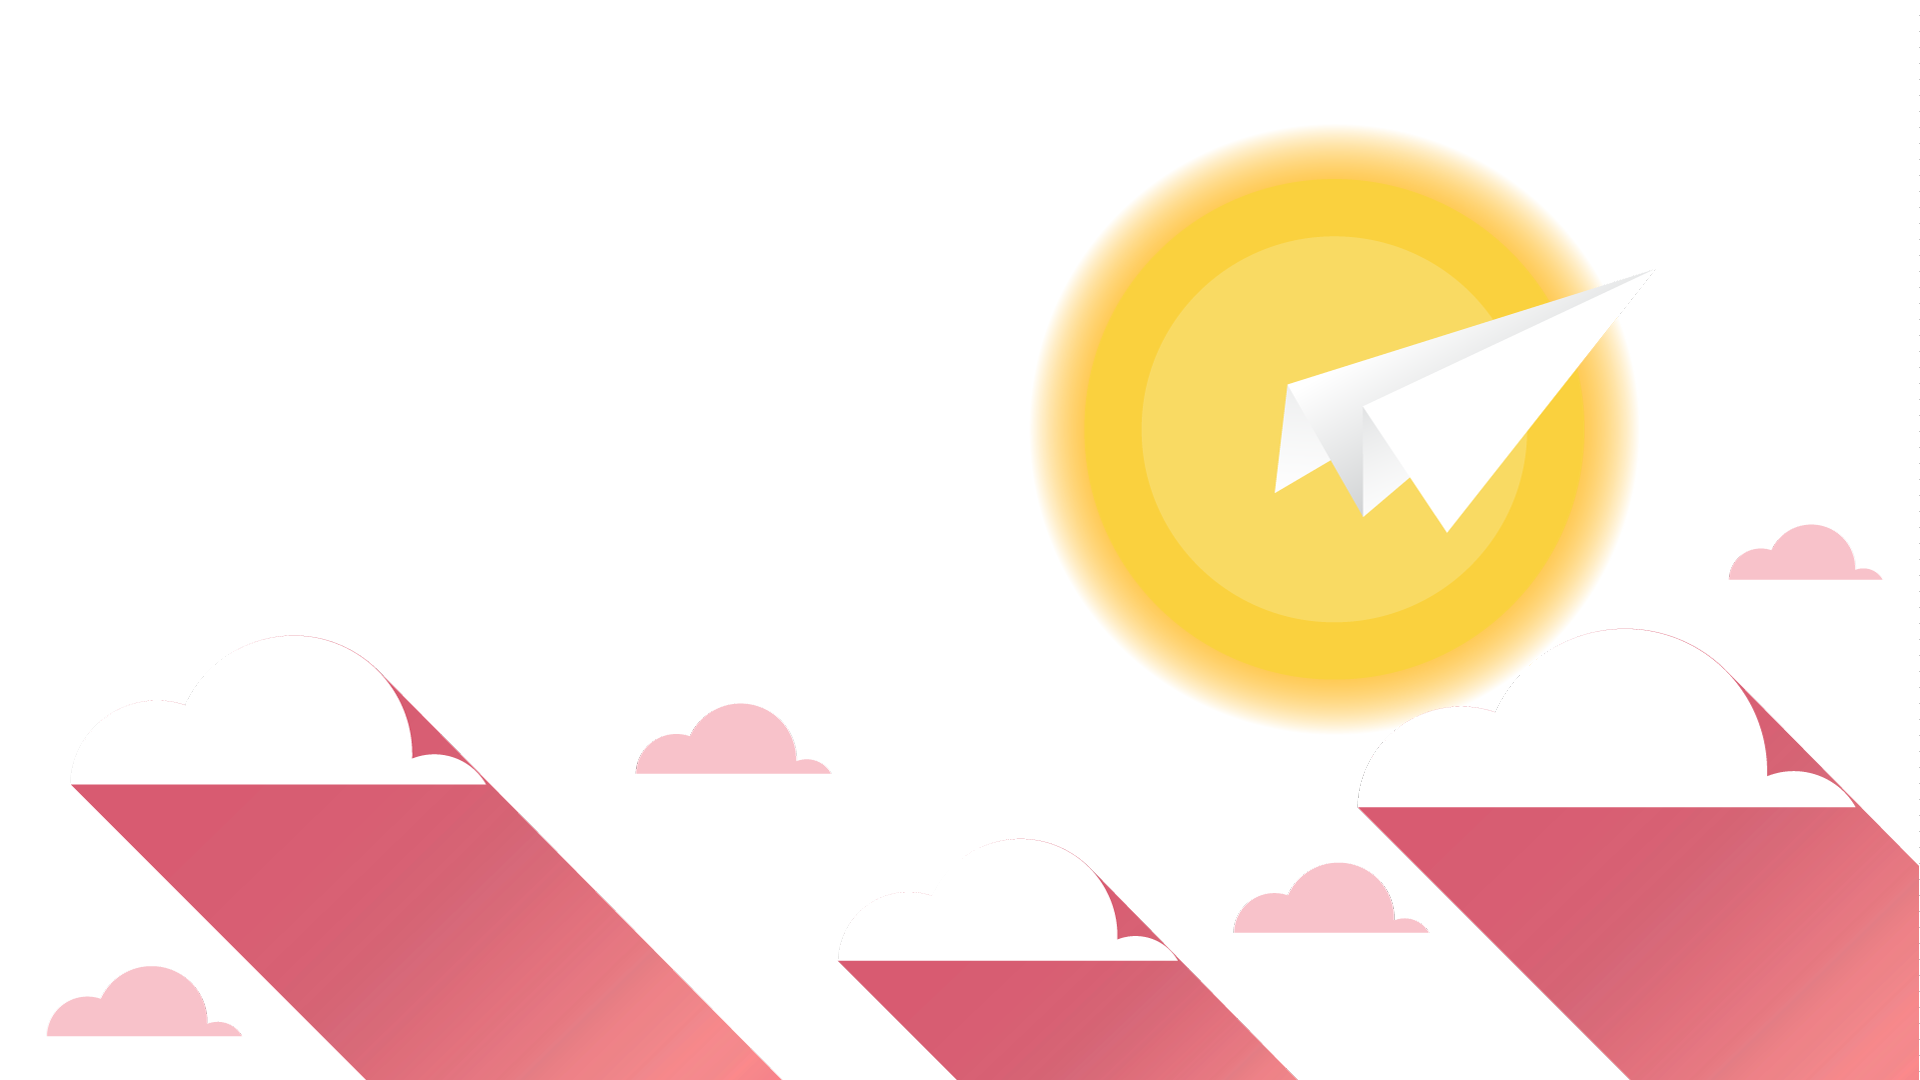
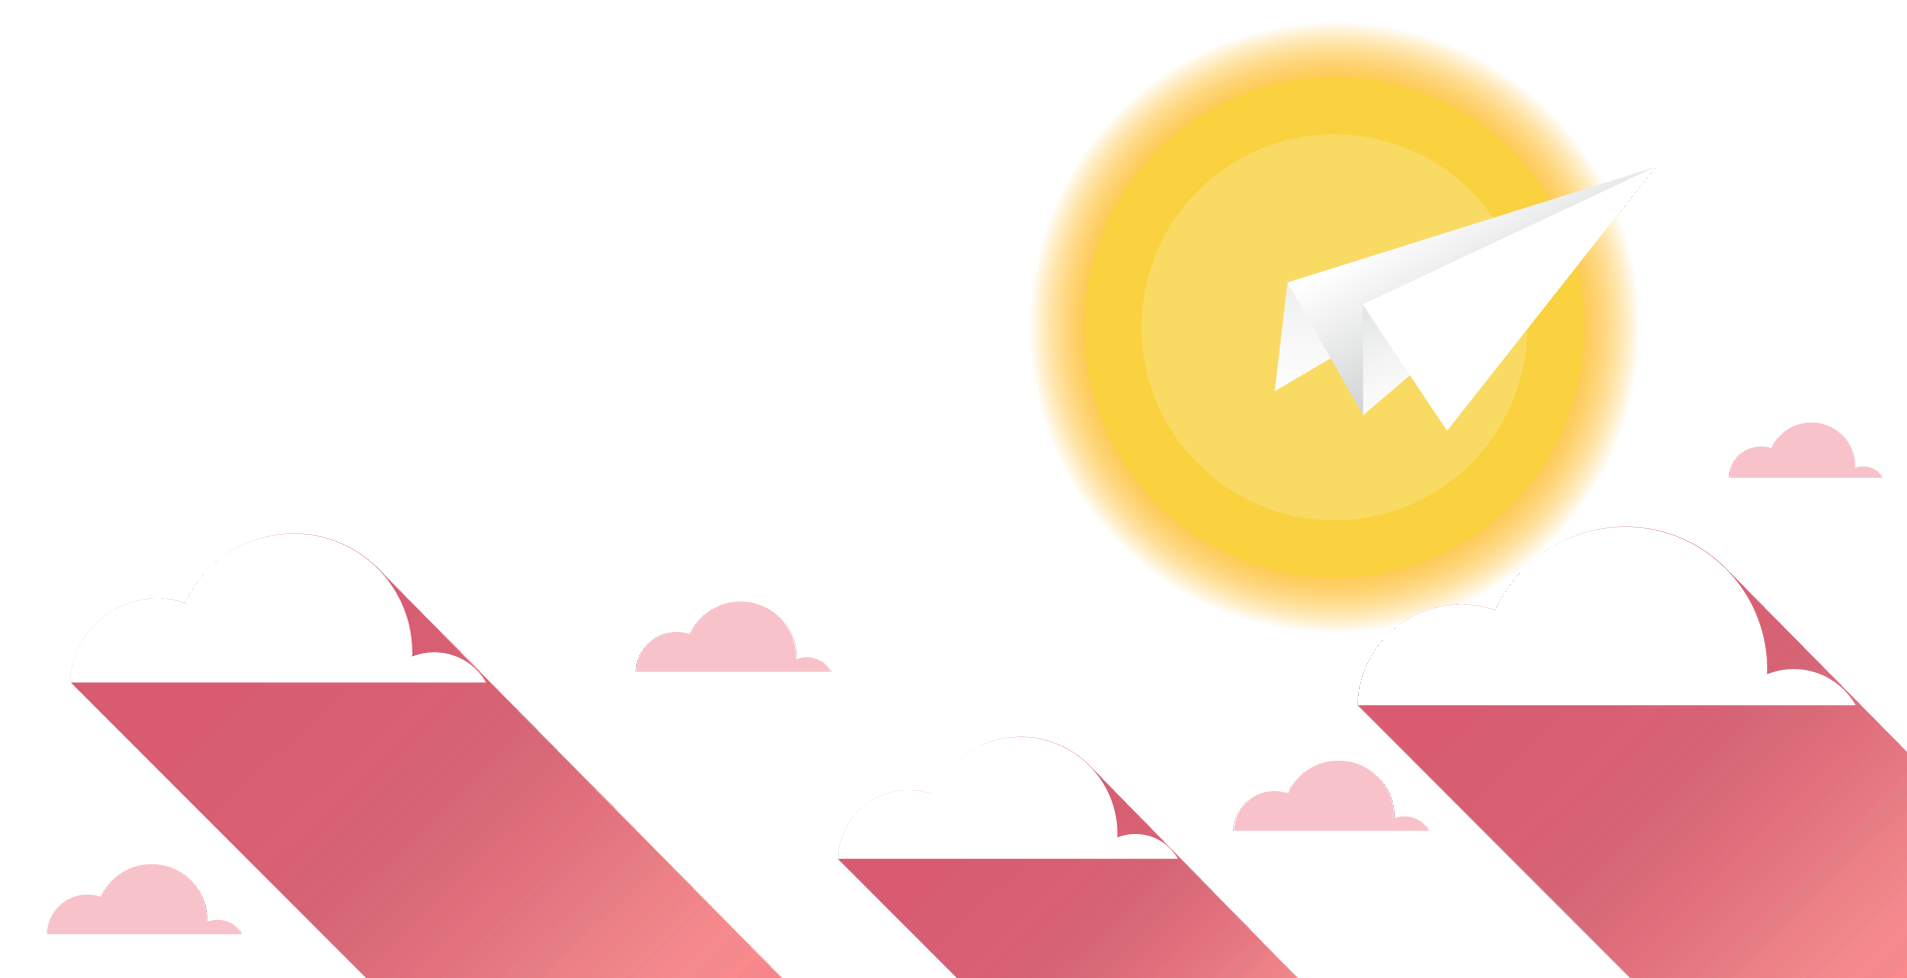
dash upload

diff --git a/public/stylesheets/index.css b/public/stylesheets/index.css
@@ -1,15 +1,13 @@
 body{
-    background: url(/images/landing.png) no-repeat center center fixed;
-    -webkit-background-size: cover;
-    -moz-background-size: cover;
-    -o-background-size: cover;
-    background-size: cover;
+    /*background: url(/images/landing.png) no-repeat center center fixed;*/
+    padding-right: 0;
+    padding-left: 0;
     background-color: #ff8189;
 }
 
 #blurb{
     position: absolute;
-    top: 190px;
+    top: 20%;
     left: 60px;
 }
 #blurb p{
@@ -22,7 +20,7 @@ body{
     -moz-border-radius: 35px;
     border-radius: 35px;
     padding: 10px 50px 10px 50px;
-    font-family: Quicksand;
+    font-family: 'Quicksand', sans-serif;
     font-size: 20px;
     text-decoration: none;
 }
@@ -34,9 +32,15 @@ body{
 
 
 #graphic{
-    position: absolute;
-    top: 80px;
-    right: 20px;
-    overflow: visible;
-    left: 20px;
+    position: relative;
+    height: calc(100vh - 105px);
+    width: 100%;
+    margin-right: -20px;
+    margin-left: -20px;
+}
+
+#landing-img{
+    width: 100%;
+    z-index: -5;
+    overflow: hidden;
 }

diff --git a/public/stylesheets/login-signup.css b/public/stylesheets/login-signup.css
@@ -3,12 +3,13 @@
 #middle-box{
     border-radius: 25px;
     border: 1px solid white;
+    font-size: 17px;
     width: 700px;
     height: auto;
     text-align: center;
     align-items: center;
     position: relative;
-    top: 100px;
+    top: 85px;
     bottom: 0;
     left: 0;
     right: 0;
@@ -22,7 +23,6 @@ form * {
     margin: 5px;
 }
 
-
 #inner-box{
     text-align: right;
     width: auto;
@@ -30,13 +30,29 @@ form * {
 }
 
 .field{
+    border-radius: 6px;
+    -webkit-box-sizing: border-box;
+    -moz-box-sizing: border-box;
+    box-sizing: border-box;
     width: 200px;
+    background: transparent;
+    color: white;
+    font-family: 'Quicksand', sans-serif;
+    border: solid #ffffff 1px;
+    font-size: 17px;
 }
+
+.field:focus {
+    outline: none !important;
+    border:1px solid #ffffff;
+    box-shadow: 0 0 10px #375d9d;
+}
+
 
 
 .submt-in-button {
     border-radius: 12px;
-    font-family: Quicksand;
+    font-family: 'Quicksand', sans-serif;
     color: #ffffff;
     width: 100%;
     font-size: 18px;

diff --git a/public/stylesheets/style.css b/public/stylesheets/style.css
@@ -2,7 +2,7 @@ body {
   padding-right: 20px;
   padding-left: 20px;
   padding-top: 20px;
-  font: 14px Quicksand, Arial, sans-serif;
+  font: 14px 'Quicksand', sans-serif;
   background-color: #ff8189;
   color: white;
 }
@@ -10,6 +10,10 @@ body {
 a {
   color: white;
   text-decoration: none;
+}
+
+header{
+  height: 70px;
 }
 
 
@@ -43,7 +47,7 @@ a {
   margin-left: 3px;
   margin-right: 3px;
   border-radius: 18px;
-  font-family: Quicksand;
+  font-family: 'Quicksand', sans-serif;
   color: #ffffff;
   font-size: 20px;
   background: #ff8189;
@@ -56,6 +60,24 @@ a {
   background: #ffffff;
   text-decoration: none;
   color: #ff8189;
+}
+
+.blue-btn {
+  border-radius: 12px;
+  font-family: 'Quicksand', sans-serif;
+  color: #ffffff;
+  width: 100%;
+  font-size: 18px;
+  background: #375d9d;
+  border: none;
+  padding: 7px 35px 7px 35px;
+  text-decoration: none;
+}
+
+.blue-btn:hover {
+  background: #ffffff;
+  text-decoration: none;
+  color: #375d9d;
 }
 
 

diff --git a/public/stylesheets/dash.css b/public/stylesheets/dash.css
@@ -1,0 +1,18 @@
+
+#middle-box{
+    border-radius: 25px;
+    border: 1px solid white;
+    font-size: 17px;
+    width: 700px;
+    height: auto;
+    text-align: center;
+    align-items: center;
+    position: relative;
+    top: 85px;
+    bottom: 0;
+    left: 0;
+    right: 0;
+    margin: auto;
+}
+
+
